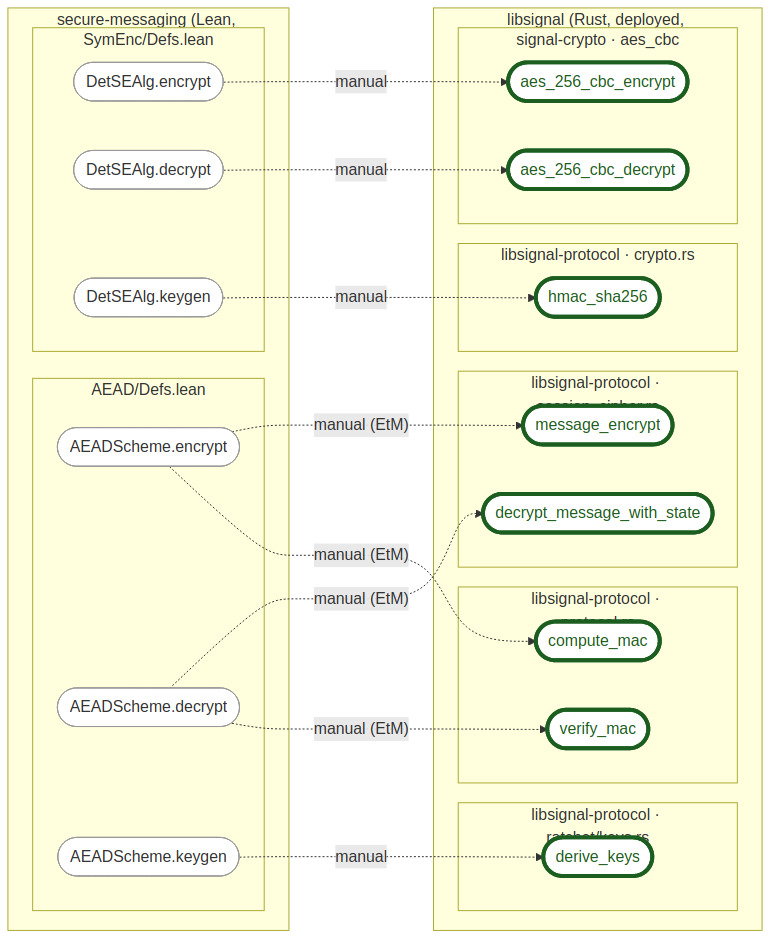
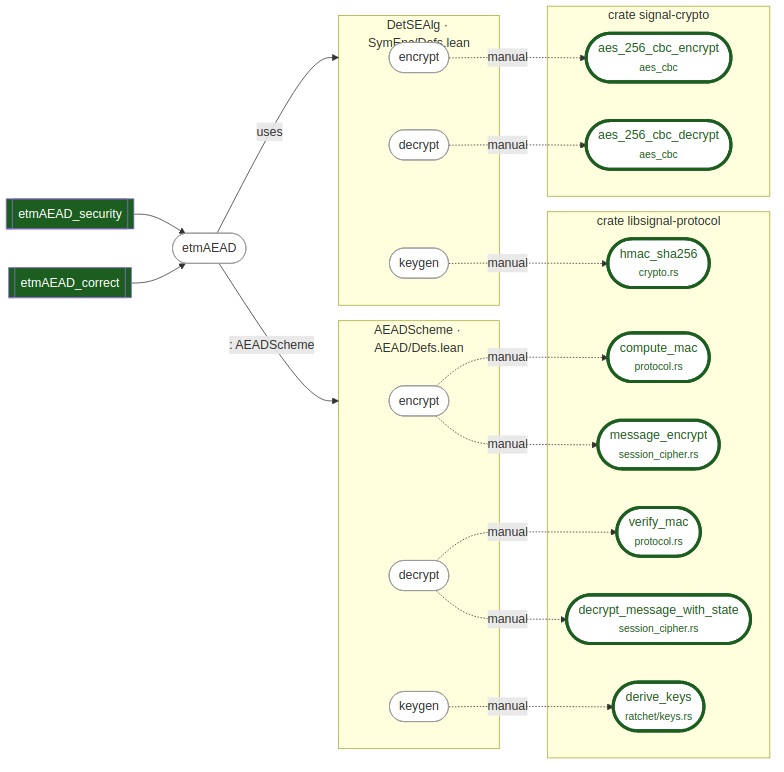
docs: joint diagram now shows the full theorem->scheme chain, crates visible
Rebuild the joint diagram to include the Lean spine in one picture: the
proved theorems etmAEAD_correct/etmAEAD_security depend on the etmAEAD
construction, which is an AEADScheme and uses DetSEAlg; each scheme box
(named with its file) holds its encrypt/decrypt/keygen fields, which are
the mapping's source. Group the Rust targets under crate boxes
(signal-crypto, libsignal-protocol) with the file as a second line per
node, so the crate names are no longer hidden behind the function names.

diff --git a/docs/slides-lean-verification-landscape.md b/docs/slides-lean-verification-landscape.md
@@ -1,27 +1,4 @@
----
-marp: true
-theme: default
-paginate: true
----
-
 # Lean Verification Landscape
-
-**Specs as First-Class Citizens**
-
-How probe-lean could discover specifications across different Lean project types
-
----
-
-## The problem
-
-In **Verus**, specs are syntactically explicit: `requires`, `ensures`, `proof fn`.
-
-In **Lean 4**, specs hide in **types**, **attributes**, **naming**, and **module structure** — no single syntax marks "this is a spec".
-
-**How could probe-lean find them?**
-
-
----
 
 ## Colour key
 
@@ -140,12 +117,12 @@ probe-lean can identify what *is* specified (`specs` field non-empty), but deter
 
 `probe merge` of probe-rust on libsignal with probe-lean on secure-messaging, joined by a manual `probe/mappings` file. Grounded in `secure-messaging/.verilib`.
 
-![w:520](img/joint-libsignal-secure-messaging.png)
+![w:560](img/joint-libsignal-secure-messaging.png)
 
-- Left: secure-messaging's proved-secure model (Lean). Right: libsignal's deployed Rust, grouped by crate and file.
-- Dashed **manual** arrows are the mapping (tool `manual`): a human claim that this Rust code realizes the abstract primitive, not a proof.
-- The green **halo** (outline, not fill) means model-backed but not itself verified, distinct from a solid-green proved node.
-- The `encrypt` and `decrypt` fans to two Rust functions each reveal Encrypt-then-MAC inside libsignal.
+- Solid chain (Lean, proved): the theorems `etmAEAD_correct`/`etmAEAD_security` rest on the construction `etmAEAD`, which is an `AEADScheme` and `uses` `DetSEAlg`. Each scheme's fields (`encrypt`/`decrypt`/`keygen`) are the mapping's source.
+- Dashed **manual** arrows are the mapping (tool `manual`): a human claim that a Rust function realizes the abstract field, not a proof.
+- Rust targets are grouped by crate (`signal-crypto`, `libsignal-protocol`) with the file under each; the green **halo** (outline, not fill) means model-backed but not itself verified.
+- The `encrypt`/`decrypt` fans to two Rust functions each reveal Encrypt-then-MAC inside libsignal.
 
 ---
 

diff --git a/docs/probes-overview-slides.md b/docs/probes-overview-slides.md
@@ -310,6 +310,18 @@ Colours for statuses, shapes for roles:
 - can be def/thm like in verso-blueprint; not sure if it makes sense for verus...
 - can be impl/spec/proof; could make sense for Verus; not much for Lean spec-theorems; maybe just impl/spec? just have a shape for specs?
 
+What we have in the jsons:
+- kinds: def/abbrev/thm/... for lean; exec/spec/proof for verus
+
+---
+
+## Arrows
+
+The following fields in the jsons from the probes can allow us to have different arrows:
+- `translation-name`
+- `primary-spec`
+- `dependencies`
+
 ---
 
 ## Lean projects formalizing security protocols
@@ -342,6 +354,14 @@ Colours for statuses, shapes for roles:
 
 - Do we want to display pure Rust projects on VeriLib?
   - if yes, what colour should those atoms have?
+
+- When is a project "done"?
+  - for verification: when rust functions are green? 
+  - when theorems are green?
+  - the issue is that without a notion of tracking any "intermediate" state of a given project is "done"
+
+- Axioms should be distinguished by colour (purple) or shape?
+  - i'd have prefered to use colour, to me, it's about the status of a theorem/function: it's trusted; and by using colours, we can quantify how much we trust; if we use shapes, it's harder to quantify how big is trusted
 
 ---
 